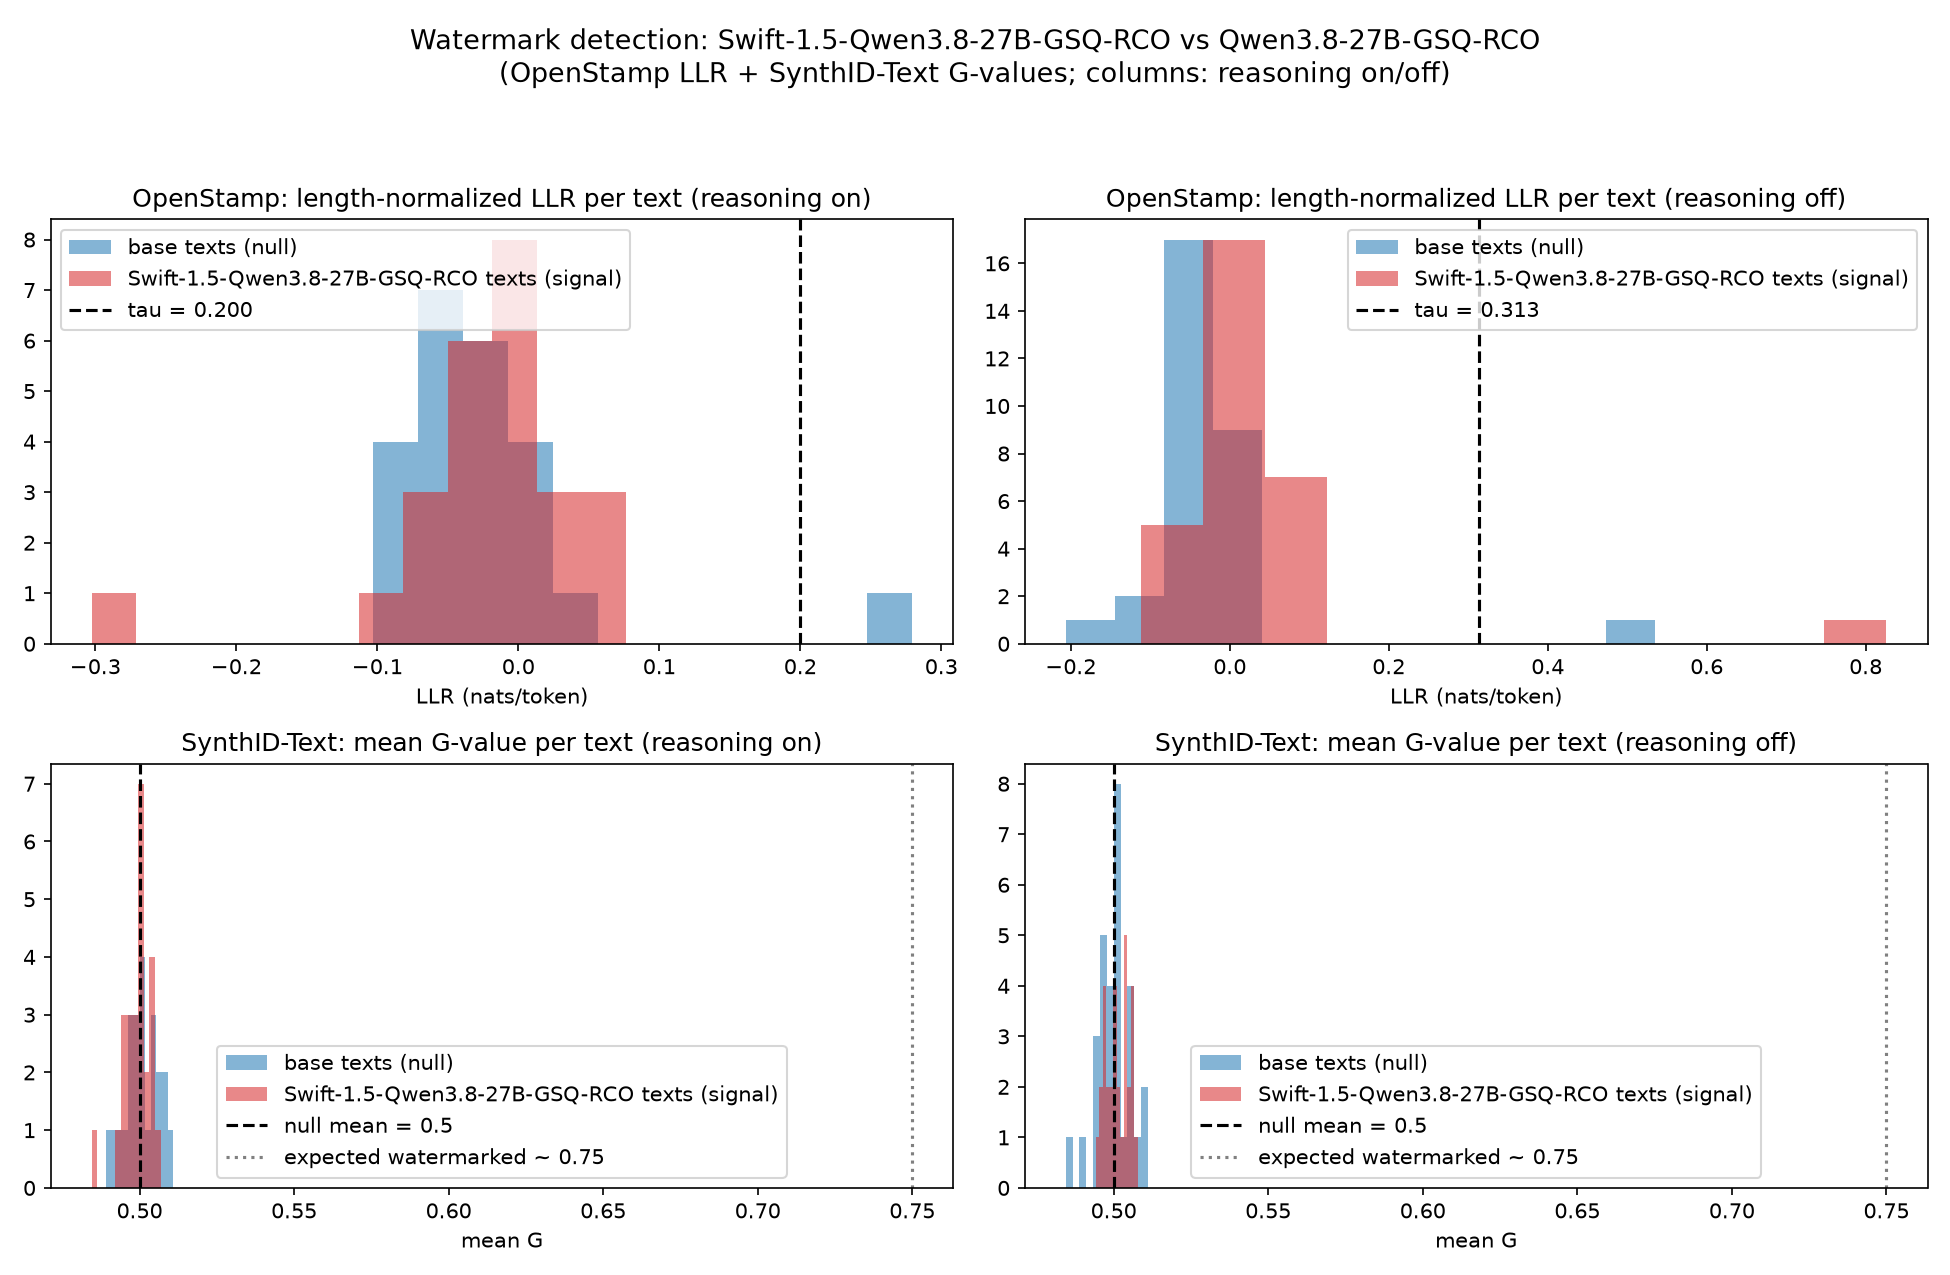
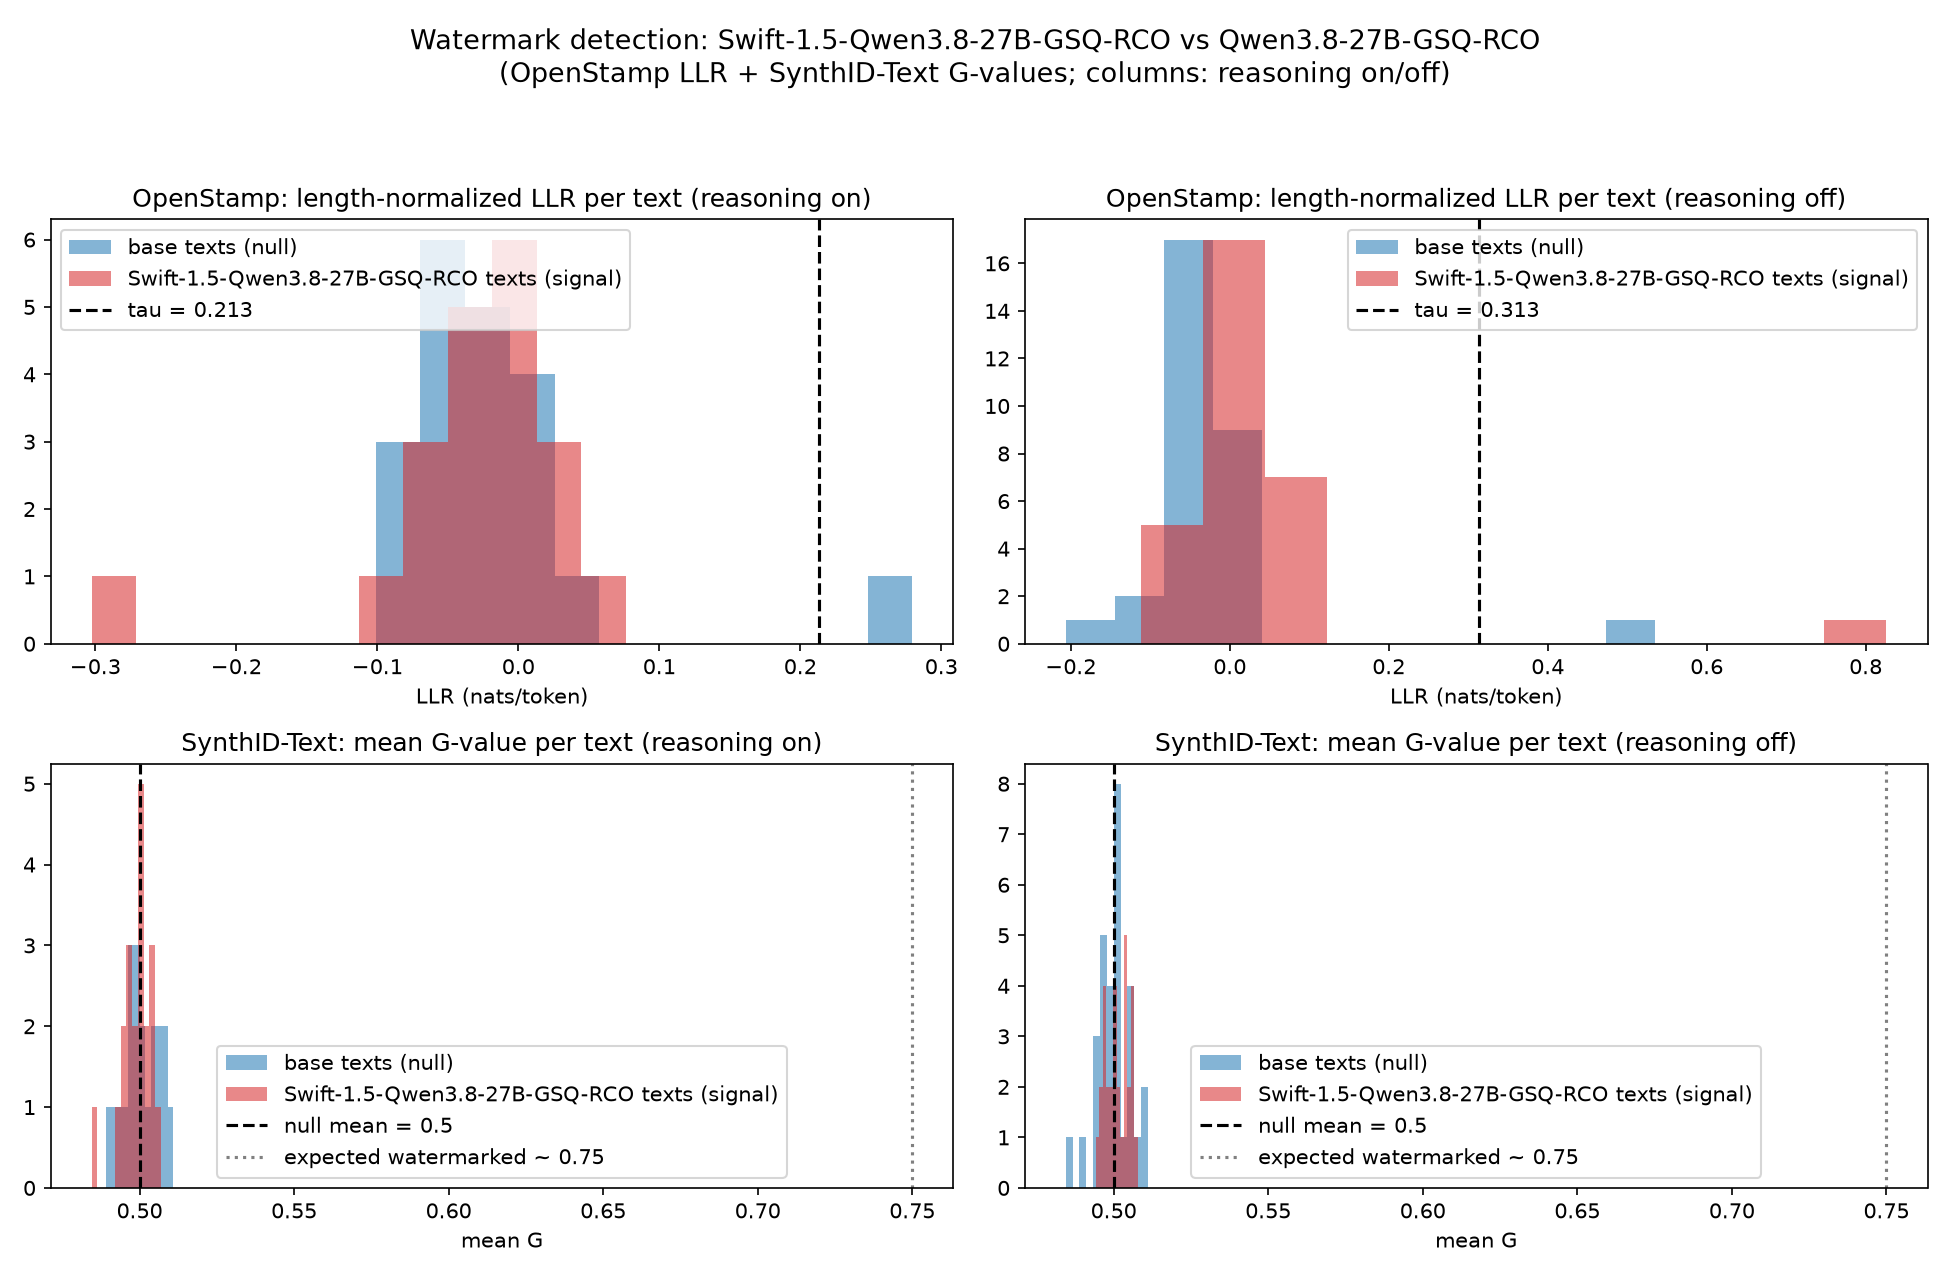
Вердикт — спаренный t-критерий (t≥3, большинство разностей >0); status.py — все прогоны; тест: OpenStamp 7B Q8_0 — watermark обнаружен (t=6.46/3.37)

diff --git a/detect.py b/detect.py
@@ -421,18 +421,25 @@ def score_texts_server(cfg, server, data, tag, mode, field):
 # --------------------------------------------------------------------------
 def openstamp_llrs(data):
     """-> {mode: (llr_wm, llr_null)}: (L_wm − L_base) / (n_scored − 1).
-    Эквивалентность референсу openstamp/src/llr.py — test_llr.py."""
+    Пары по индексу промпта: строка учитывается, если тексты обеих
+    моделей валидны (непустые и посчитаны). Эквивалентность
+    референсу openstamp/src/llr.py — test_llr.py."""
     out = {}
     for mode in MODES:
-        vals = {}
-        for tag in ("wm", "base"):
-            vals[tag] = np.array([
-                (rec["L_wm"] - rec["L_base"])
-                / max(rec.get("n_scored", rec["n"]) - 1, 1)
-                for rec in data[tag][mode]
-                if rec.get("text", "").strip()
-                and "L_wm" in rec and "L_base" in rec])
-        out[mode] = (vals["wm"], vals["base"])
+        wm_recs, base_recs = data["wm"][mode], data["base"][mode]
+        llr_wm, llr_null = [], []
+        for i in range(min(len(wm_recs), len(base_recs))):
+            a, b = wm_recs[i], base_recs[i]
+            ok = (a.get("text", "").strip() and b.get("text", "").strip()
+                  and all(k in r for r, k in ((a, "L_wm"), (a, "L_base"),
+                                             (b, "L_wm"), (b, "L_base"))))
+            if not ok:
+                continue
+            llr_wm.append((a["L_wm"] - a["L_base"])
+                          / max(a.get("n_scored", a["n"]) - 1, 1))
+            llr_null.append((b["L_wm"] - b["L_base"])
+                            / max(b.get("n_scored", b["n"]) - 1, 1))
+        out[mode] = (np.array(llr_wm), np.array(llr_null))
     return out
 
 
@@ -479,19 +486,24 @@ class SynthIDDetector:
 
 
 def synthid_scores(cfg, data, det):
-    """-> {tag: {mode: [rows]}}: по-последовательностные G-значения."""
-    out = {}
-    for tag in ("wm", "base"):
-        out[tag] = {}
-        for mode in MODES:
-            rows = []
-            for rec in data[tag][mode]:
-                if not rec.get("text", "").strip():
-                    continue
-                g, z, M = det.score(rec["token_ids"])
-                rows.append({"mean_g": g, "z": z, "M": M})
-            out[tag][mode] = rows
-            save_data(cfg, data)
+    """-> {tag: {mode: [rows]}}: по-последовательностные G-значения.
+    Строки выравнены по индексу промпта: учитываются пары, где тексты
+    обеих моделей непустые (signal и null — спаренные)."""
+    out = {"wm": {}, "base": {}}
+    for mode in MODES:
+        wm_recs, base_recs = data["wm"][mode], data["base"][mode]
+        wm_rows, base_rows = [], []
+        for i in range(min(len(wm_recs), len(base_recs))):
+            a, b = wm_recs[i], base_recs[i]
+            if not (a.get("text", "").strip() and b.get("text", "").strip()):
+                continue
+            g, z, M = det.score(a["token_ids"])
+            wm_rows.append({"mean_g": g, "z": z, "M": M})
+            g, z, M = det.score(b["token_ids"])
+            base_rows.append({"mean_g": g, "z": z, "M": M})
+        out["wm"][mode] = wm_rows
+        out["base"][mode] = base_rows
+        save_data(cfg, data)
     return out
 
 
@@ -499,7 +511,21 @@ def synthid_scores(cfg, data, det):
 # Статистика и вердикт
 # --------------------------------------------------------------------------
 def aggregate(signal, null):
-    """Сводка по signal/null: tau = mean+3std; verdict = (hits >= 75% n) и z_agg >= 3."""
+    """Сводка по signal/null (пары по промптам).
+
+    Основной статистика — спаренный t-критерий по разностям
+    d = signal - null (одни и те же промпты у обеих моделей):
+    t_agg = mean(d) / (std(d)/sqrt(n)). Он не зависит от маргинальной
+    дисперсии null (та, что надувала tau при малом n).
+    verdict = (t_agg >= 3.0) и (большинство d > 0).
+    tau/hits — по-текстовый взгляд (auxiliary), z_agg — неспаренный аналог.
+    """
+    signal = np.asarray(signal, dtype=float)
+    null = np.asarray(null, dtype=float)
+    d = signal - null
+    sd = float(d.std(ddof=1))
+    t_agg = float(d.mean() / (sd / math.sqrt(len(d)))) if sd > 0 else 0.0
+    pos_rate = float((d > 0).mean())
     tau = float(null.mean() + 3 * null.std())
     hits = int((signal > tau).sum())
     z_agg = float((signal.mean() - null.mean())
@@ -516,7 +542,9 @@ def aggregate(signal, null):
         "n": int(len(signal)),
         "hit_rate": hits / len(signal),
         "z_agg": z_agg,
-        "verdict": (hits >= 0.75 * len(signal)) and (z_agg >= 3.0),
+        "t_agg": t_agg,
+        "pos_rate": pos_rate,
+        "verdict": (t_agg >= 3.0) and (pos_rate >= 0.5),
     }
 
 
@@ -599,7 +627,8 @@ def print_report(cfg, llrs, synth, aggs_llr, aggs_syn):
         print(f"    tau (mean+3std) = {a_llr['tau']:+.4f}")
         print(f"    {cfg.wm_name} > tau: {a_llr['hits']}/{a_llr['n']} "
               f"({a_llr['hit_rate']*100:.1f}%)")
-        print(f"    z-сводка: {a_llr['z_agg']:+.2f}")
+        print(f"    t-сводка (спаренный): {a_llr['t_agg']:+.2f}   "
+              f"z-сводка: {a_llr['z_agg']:+.2f}")
         print(f"    => {'WATERMARK ОБНАРУЖЕН' if a_llr['verdict'] else 'watermark не обнаружен'}")
         print()
         print("[2] SynthID-Text — mean G-value (default key из репозитория)")
@@ -610,7 +639,8 @@ def print_report(cfg, llrs, synth, aggs_llr, aggs_syn):
               f"mean={zw.mean():+.2f}, max={zw.max():+.2f}")
         print(f"    {cfg.wm_name} > tau: {a_syn['hits']}/{a_syn['n']} "
               f"({a_syn['hit_rate']*100:.1f}%)")
-        print(f"    z-сводка: {a_syn['z_agg']:+.2f}")
+        print(f"    t-сводка (спаренный): {a_syn['t_agg']:+.2f}   "
+              f"z-сводка: {a_syn['z_agg']:+.2f}")
         print(f"    => {'WATERMARK ОБНАРУЖЕН' if a_syn['verdict'] else 'watermark не обнаружен'}")
     print()
     print("=" * 78)
@@ -644,6 +674,8 @@ def main():
     ap.add_argument("--host", default=Config.host,
                     help="адрес сервера (llama.cpp -host)")
     ap.add_argument("--port", type=int, default=Config.port)
+    ap.add_argument("--data", default=Config.data,
+                    help="каталог data.json/отчёта/графика (по прогонам)")
     # Модели
     ap.add_argument("--wm-model", default=Config.wm_name,
                     help="имя watermarked-модели (в отчёте)")
@@ -673,6 +705,7 @@ def main():
         device=args.device,
         host=args.host,
         port=args.port,
+        data=args.data,
         prompts=args.prompts,
         tokens=args.tokens,
     )

diff --git a/status.py b/status.py
@@ -1,25 +1,25 @@
 #!/usr/bin/env python3
 """Статус прогона детекции watermark.
 
-Читает data/data.json (сохраняется после каждого промпта) и показывает:
-- сколько текстов собрано по каждому (модель, режим)
+Без аргументов — показывает все прогоны (data/data.json и data-*/data.json).
+С аргументом — один файл: python3 status.py /путь/к/data.json
+
+Показывает по каждому (модель, режим):
+- сколько текстов собрано
 - сколько токенов
 - сколько текстов уже посчитано под L_wm / L_base
 - пустые тексты (модель зациклилась на спец-токенах) не скорятся —
   в знаменателе число непустых
 - mtime файла
-
-Запуск: python3 status.py [путь к data.json]
 """
+import glob
 import json
 import os
 import sys
 import time
 
 
-def main():
-    root = os.path.dirname(os.path.abspath(__file__))
-    path = sys.argv[1] if len(sys.argv) > 1 else os.path.join(root, "data", "data.json")
+def show(path):
     if not os.path.isfile(path):
         print(f"нет файла: {path} (прогон ещё не начал писать данные)")
         return
@@ -28,7 +28,7 @@ def main():
         with open(path) as f:
             data = json.load(f)
     except json.JSONDecodeError:
-        print("data.json читается в момент записи — повторите через пару секунд")
+        print(f"{path}: читается в момент записи — повторите через пару секунд")
         return
 
     st = os.stat(path)
@@ -67,6 +67,23 @@ def main():
 
     print()
     print(f"итого: {total} текстов собрано, {done} полностью посчитаны")
+
+
+def main():
+    root = os.path.dirname(os.path.abspath(__file__))
+    if len(sys.argv) > 1:
+        paths = [sys.argv[1]]
+    else:
+        paths = [p for p in sorted(glob.glob(os.path.join(root, "data*", "data.json")))
+                 if os.path.isfile(p)]
+        if not paths:
+            print("data.json не найдены (прогоны не запущены)")
+            return
+    for i, path in enumerate(paths):
+        if i > 0:
+            print()
+            print("=" * 60)
+        show(path)
 
 
 if __name__ == "__main__":

diff --git a/README.md b/README.md
@@ -59,7 +59,9 @@ python3 status.py                                      # статус прого
 2. **Скоринг** — L = Σ log p(x_t|x_<t>) для полной 2×2-матрицы
    (тексты × модели) через GBNF-грамматики (pre-sampling logprobs);
    пустые тексты (зацикливание на спец-токенах) исключаются из анализа;
-3. **Анализ** — детекторы, отчёт, график.
+3. **Анализ** — детекторы, отчёт, график. Вердикт — спаренный
+   t-критерий по разностям (signal − null) на общих промптах:
+   t ≥ 3 и большинство разностей положительные.
 
 ## Результат
 
